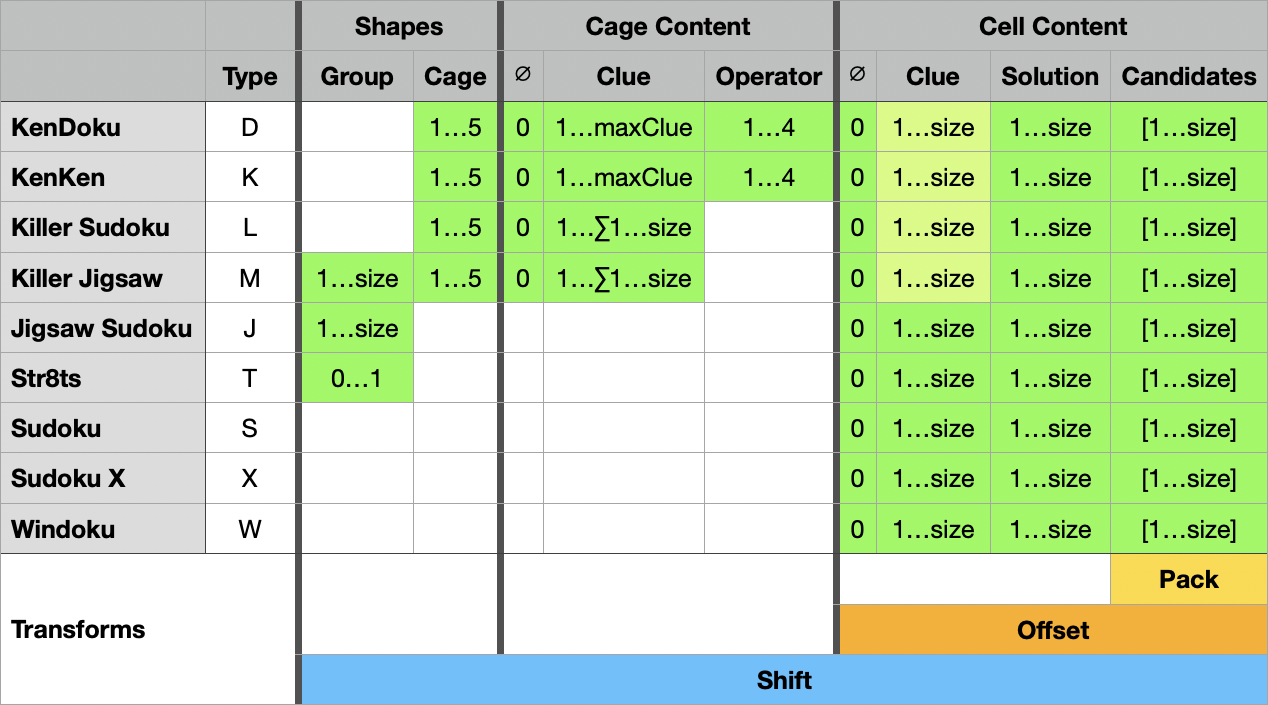
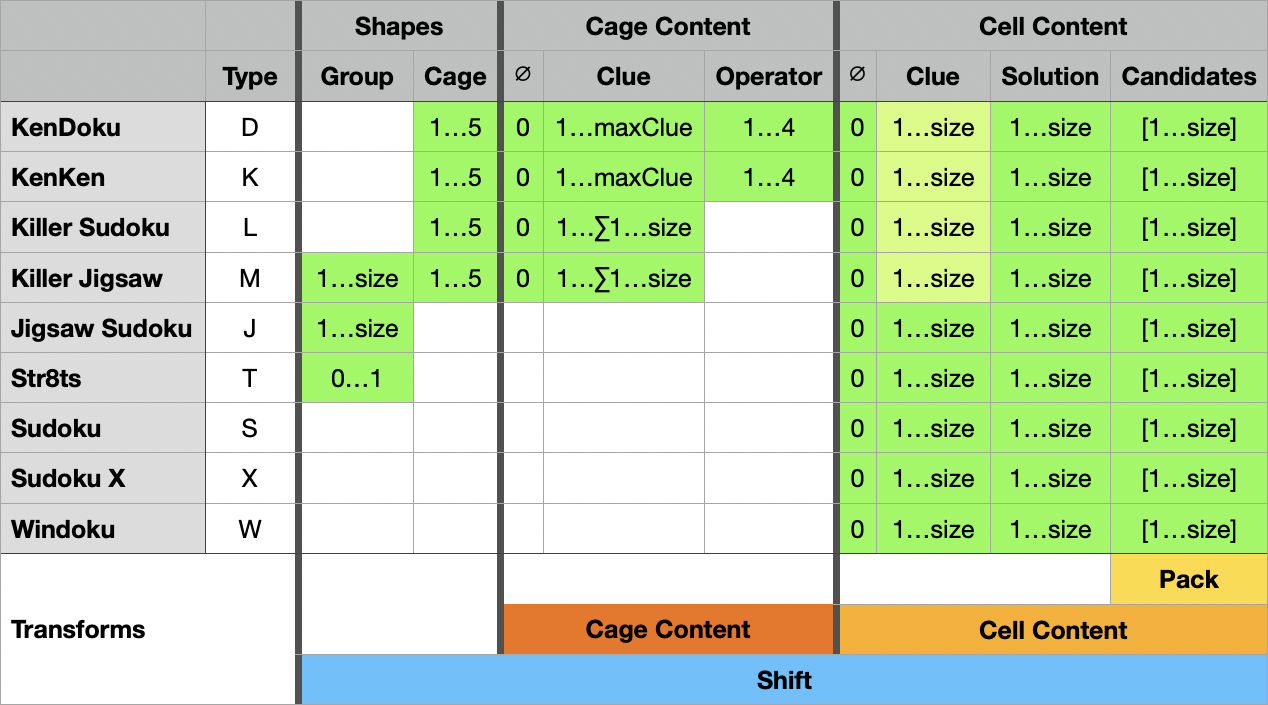
Reimplement KenCageTransform and update documentation.

Changed region(s): [[0.3998, 0.8426, 0.6767, 0.9362], [0.7689, 0.8738, 0.892, 0.905]]

diff --git a/Sources/PuzzleCoding/Cage/KenCageTransform.swift b/Sources/PuzzleCoding/Cage/KenCageTransform.swift
@@ -8,74 +8,49 @@
 struct KenCageTransform {
     let size: Size
 
-    var empty: Int { 0 }
+    private var empty: Int { 0 }
     private var maximumClue: Int { size.rawValue * size.rawValue * size.rawValue * (size.rawValue - 1) * (size.rawValue - 2) }
     var clueRange: ClosedRange<Int> { 1...min(1023, maximumClue) }
     var range: ClosedRange<Int> { empty...clueRange.upperBound }
 
-    private func left(_ index: Int) -> Int? {
-        guard index > 0 else { return nil }
-        let left = index - 1
-        // same row
-        guard index / size.rawValue == left / size.rawValue else { return nil }
-        return left
-    }
-
-    private func above(_ index: Int) -> Int? {
-        guard index >= size.rawValue else { return nil }
-        let above = index - size.rawValue
-        return above
-    }
-
-    private func isSingleCell(_ index: Int, in shapes: [Int]) -> Bool {
-        let left = left(index)
-        let above = above(index)
-        let right = (index + 1).isMultiple(of: size.rawValue) ? nil : index + 1
-        let below = (index + size.rawValue) > size.gridCellCount ? nil : index + size.rawValue
-        return (left == nil || shapes[left!] != shapes[index])
-        && (above == nil || shapes[above!] != shapes[index])
-        && (right == nil || shapes[right!] != shapes[index])
-        && (below == nil || shapes[below!] != shapes[index])
-    }
-
     func encode(_ cells: [CageInfo]) -> [Int] {
-        zip(cells.indices, cells).map { (index, info) in
-            if let clue = info.clue {
-                clue.value
-            } else if let left = left(index),
-                      cells[left].cage == info.cage,
-                      let op = cells[left].clue?.operator
-            {
-                op
-            } else if let above = above(index),
-                      cells[above].cage == info.cage,
-                      let op = cells[above].clue?.operator
-            {
-                op
-            } else {
-                empty
+        var values = Array(repeating: empty, count: size.gridCellCount)
+        for (index, info) in zip(cells.indices, cells) {
+            guard let clue = info.clue else { continue }
+            values[index] = clue.value
+            if let operatorCell = operatorCell(for: index, in: cells) {
+                values[operatorCell] = clue.operatorValue
             }
         }
+        return values
+    }
+
+    private func operatorCell(for index: Int, in cells: [CageInfo]) -> Int? {
+        var next = index + 1
+        guard !next.isMultiple(of: size.rawValue) else { return nil }
+        if cells[index].cage == cells[next].cage { return next }
+
+        next = index + size.rawValue
+        guard next < cells.endIndex, cells[index].cage == cells[next].cage else { return nil }
+        return next
     }
 
     func decode(shapes: [Int], contents: [Int]) throws -> [CageInfo] {
         var cages = shapes.map { CageInfo(cage: $0) }
+        var contents = contents
 
-        for (index, content) in zip(contents.indices, contents) where content != empty {
-            if let left = left(index),
-               cages[left] == cages[index],
-               let clue = CageInfo.Clue(operator: content, value: contents[left])
-            {
-                cages[left].clue = clue
-            } else if let above = above(index),
-                      cages[above] == cages[index],
-                      let clue = CageInfo.Clue(operator: content, value: contents[above])
-            {
-                cages[above].clue = clue
-            } else if isSingleCell(index, in: shapes) {
-                cages[index].clue = .add(content)
+        for index in contents.indices where contents[index] != empty {
+            let clueValue = contents[index]
+            if let operatorCell = operatorCell(for: index, in: cages) {
+                let operatorValue = contents[operatorCell]
+                guard let clue = CageInfo.Clue(operator: operatorValue, value: clueValue) else { throw Error.outOfRange }
+                cages[index].clue = clue
+                contents[operatorCell] = empty
+            } else {
+                cages[index].clue = CageInfo.Clue.add(clueValue)
             }
         }
+
         guard cages.allSatisfy({ $0.clue.map { clueRange.contains($0.value) } ?? true }) else { throw Error.outOfRange }
         return cages
     }

diff --git a/Tests/PuzzleCodingTests/ManualTranslationTests.swift b/Tests/PuzzleCodingTests/ManualTranslationTests.swift
@@ -12,7 +12,7 @@ struct ManualTranslationTests {
     @Test
     func kenKen() throws {
         let raw = KenKen.veryEasy1.rawValue
-        print(raw)
+//        print(raw)
         let decoded = try #require(KenKen(rawValue: raw))
         //        let grid = Grid(decoded.puzzle)
         //        print(grid.cellContent)
@@ -25,7 +25,7 @@ struct ManualTranslationTests {
     @Test
     func kenKenSmall3() throws {
         let raw = KenKen.small3.rawValue
-        print(raw)
+//        print(raw)
         let decoded = try #require(KenKen(rawValue: raw))
 //        let grid = Grid(decoded)
 //        print(grid.cellContent)
@@ -38,7 +38,7 @@ struct ManualTranslationTests {
     @Test
     func kenKenSmall4() throws {
         let raw = KenKen.small4.rawValue
-        print(raw)
+//        print(raw)
         let decoded = try #require(KenKen(rawValue: raw))
 //        let grid = Grid(decoded)
 //        print(grid.cellContent)
@@ -73,9 +73,9 @@ struct ManualTranslationTests {
         let raw = Str8ts.easy1.rawValue
         let decoded = try #require(Str8ts(rawValue: raw))
         let grid = Grid(decoded)
-        print(raw)
-        print(grid.group)
-        print(grid.cellContent)
+//        print(raw)
+//        print(grid.group)
+//        print(grid.cellContent)
         let encoded = decoded.rawValue
         #expect(raw == encoded)
         #expect(decoded == Str8ts.easy1)

diff --git a/Tests/PuzzleCodingTests/SudokuWikiCompatibilityTests.swift b/Tests/PuzzleCodingTests/SudokuWikiCompatibilityTests.swift
@@ -11,11 +11,15 @@ import Testing
 struct SudokuWikiCompatibilityTests {
     @Test
     func kenKen() throws {
+//        let cells = KenKen.veryEasy1
[1 lines of base64/hex data omitted]
+//        let attempt = KenKen(rawValue: raw)
+//        print(attempt)
+
         let myRaw = try KenKen(cells: KenKen.veryEasy1, version: .versionB).rawValue
         #expect(raw == myRaw)
         let decoded = try #require(KenKen(rawValue: raw))
-        print(Grid(decoded))
+//        print(Grid(decoded))
         let encoded = decoded.rawValue
         #expect(raw == encoded)
 
@@ -26,7 +30,7 @@ struct SudokuWikiCompatibilityTests {
     func killerJigsaw() throws {
         let raw = ""
         let decoded = try #require(KillerJigsaw(rawValue: raw))
-        print(Grid(decoded))
+//        print(Grid(decoded))
         let encoded = decoded.rawValue
         #expect(raw == encoded)
     }

diff --git a/Tests/PuzzleCodingTests/KenKenCoderTests.swift b/Tests/PuzzleCodingTests/KenKenCoderTests.swift
@@ -47,14 +47,14 @@ struct KenKenCoderTests {
         }
     }
 
-    @Test
-    func sizes() {
-        for size in Size.allCases {
-            let ranges = KenKen.ranges(for: size)
-            let shiftTransform = ShiftTransform(ranges: ranges.cageShape, ranges.cageContent, ranges.cellContent)
-            let fieldCoding = FieldCoding(range: shiftTransform.range)
-        }
-    }
+//    @Test
+//    func sizes() {
+//        for size in Size.allCases {
+//            let ranges = KenKen.ranges(for: size)
+//            let shiftTransform = ShiftTransform(ranges: ranges.cageShape, ranges.cageContent, ranges.cellContent)
+//            let fieldCoding = FieldCoding(range: shiftTransform.range)
+//        }
+//    }
 //    @Test
 //    func maximums() {
 //        for size in Size.allCases {

diff --git a/Sources/PuzzleCoding/Puzzles/KenKen/KenKenVersionB.swift b/Sources/PuzzleCoding/Puzzles/KenKen/KenKenVersionB.swift
@@ -16,14 +16,14 @@ extension KenKen {
         static func encode(_ puzzle: KenKen) -> String {
             let size = puzzle.size
 
-            let cageValues = KenCageTransform(size: size).encode(puzzle.map(\.cage!))
+            let cageContent = KenCageTransform(size: size).encode(puzzle.map(\.cage!))
             let ranges = KenKen.ranges(for: size)
             let shiftTransform = ShiftTransform(ranges: ranges.cageShape, ranges.cageContent, ranges.cellContent)
 
             let cellTransform = CellContentTransform(size: size)
             let values = Zipper(
                 puzzle.map(\.cage!.cage),
-                cageValues,
+                cageContent,
                 puzzle.map(\.content).map(cellTransform.encode)
             ).map(shiftTransform.encode)
 

diff --git a/Sources/PuzzleCoding/Cell/CageInfo.swift b/Sources/PuzzleCoding/Cell/CageInfo.swift
@@ -7,7 +7,7 @@
 
 /// Cage related information about a cell.
 ///
-/// >Important: Be sure you understand how to store information for <doc:Cages> and <doc:Shapes>.
+/// >Important: Be sure you understand how to store information for [Cages](<doc:CageContentTransform>) and <doc:Shapes>.
 public struct CageInfo: Equatable, Sendable {
     /// The cage containing the cell.
     public var cage: Int
@@ -20,7 +20,7 @@ public struct CageInfo: Equatable, Sendable {
         case multiply(Int)
         case divide(Int)
 
-        var `operator`: Int {
+        var operatorValue: Int {
             switch self {
             case .add: 1
             case .subtract: 2

diff --git a/Sources/PuzzleCoding/Cage/KillerCageTransform.swift b/Sources/PuzzleCoding/Cage/KillerCageTransform.swift
@@ -9,8 +9,8 @@ struct KillerCageTransform {
     let size: Size
 
     var empty: Int { 0 }
-    var clueRange: ClosedRange<Int> { empty...size.valueRange.reduce(0, +) }
-    var range: ClosedRange<Int> { clueRange }
+    var clueRange: ClosedRange<Int> { 1...size.valueRange.reduce(0, +) }
+    var range: ClosedRange<Int> { empty...clueRange.upperBound }
 
     func encode(_ cells: [CageInfo]) -> [Int] {
         cells.map { $0.clue?.value ?? empty }

diff --git a/Tests/PuzzleCodingTests/KenKen+.swift b/Tests/PuzzleCodingTests/KenKen+.swift
@@ -28,8 +28,8 @@ extension KenKen {
         ]
 
         let cells = zip(cageShapes, clues).map { cage, clue in
-            Cell(cage: CageInfo(cage: cage, clue: clue),
-                 content: .candidates(Set(1...6)))
+//            Cell(cage: CageInfo(cage: cage, clue: clue))
+            Cell(cage: CageInfo(cage: cage, clue: clue), content: .candidates(Set(1...6)))
         }
 
         return try! KenKen(cells: cells)

diff --git a/Sources/PuzzleCoding/Documentation.docc/EncodingFormats.md b/Sources/PuzzleCoding/Documentation.docc/EncodingFormats.md
@@ -71,7 +71,7 @@ Green cells indicate the data that is required for the puzzle type and the range
 There are three general types of data to encode.
 
 - term Shapes: <doc:Shapes> describe groupings of cells. The cells of a Jigsaw piece or a cage are examples.
-- term Cage Content: <doc:Cages> contain clues about a group of cells such as the sum of their content.
+- term Cage Content: [Cages](<doc:CageContentTransform>) contain clues about a group of cells such as the sum of their content.
 - term Cell Content: Cell content is what we typically consider the data *in* a cell. It is the clue, solution or candidates (the *progress*) of the puzzle.
 
 > Important: The `∅` column under Cage Content and Cell Content indicates that *empty* is a valid value. Emptiness is denoted by the value `0`.
@@ -83,13 +83,14 @@ All puzzles are currently using Version B coding.
 This encoding transforms all of the information about each cell of a puzzle into an integer and appends
 that value to the encoding being constructed. 
 
-Version B uses 3 types of transformations to produce encoded output.
+Version B uses 4 types of transformations to produce encoded output.
 
-- term Pack: [Transform a set of *candidates*](<doc:PackCandidates>) into a single value.
-- term Offset: [Transform a set of *mutually exclusive* values](doc:OffsetTransform) into a single value. This is used for cell content. For example, a cell has multiple types of content: clue, solution or candidates that need to be described, but only one of these types of data is present at a time.
+- term Pack: [Transform a set of candidates](<doc:PackCandidates>) into a single value.
+- term Cell Content: [Transform cell content](<doc:CellContentTransform>) into a single value.
+- term Cage Content: [Transform cage content](<doc:CageContentTransform>) into a single value.
 - term Shift: [Transform a group of values](<doc:ShiftTransform>) into a single value. This is the final transformation that combines all values into a single integer representation for the data describing a cell.
 
-Some types of data go through multiple transformations as shown in the table. For example *Cell Content Candidates* are first packed and then offset. If we're coding a Jigsaw Sudoku the *Shapes Group* values are shifted along with the offset candidates to produce a new value.
+Some types of data go through multiple transformations as shown in the table. For example *Cell Content Candidates* are first packed and then transformed with the cell content transform. If we're coding a Jigsaw Sudoku the *Shapes Group* values are shifted along with the transformed candidates to produce a new value.
 
 Once all of the data for a cell has been transformed into a single value use <doc:FieldCoding> to output the value.
 
@@ -121,7 +122,7 @@ Choose your puzzle type and encode each cell using the transforms.
             @Column {
                 <doc:ShiftTransform>
                 1. cage number ([shape](<doc:Shapes>))
-                2. cage content ([cage](<doc:Cages>))
+                2. <doc:CageContentTransform>
                 3. <doc:CellContentTransform>
             }
             @Column {
@@ -153,7 +154,7 @@ Choose your puzzle type and encode each cell using the transforms.
                 <doc:ShiftTransform>
                 1. box number ([shape](<doc:Shapes>))
                 2. cage number ([shape](<doc:Shapes>))
-                3. cage content ([cage](<doc:Cages>))
+                3. <doc:CageContentTransform>
                 4. <doc:CellContentTransform>
             }
             @Column {
@@ -172,7 +173,7 @@ Choose your puzzle type and encode each cell using the transforms.
             @Column {
                 <doc:ShiftTransform>
                 1. cage number ([shape](<doc:Shapes>))
-                2. cage content ([cage](<doc:Cages>))
+                2. <doc:CageContentTransform>
                 3. <doc:CellContentTransform>
             }
             @Column {

diff --git a/Sources/PuzzleCoding/Documentation.docc/CageContentTransform.md b/Sources/PuzzleCoding/Documentation.docc/CageContentTransform.md
@@ -1,6 +1,6 @@
-# Cages
+# Cage Content Transform
 
-A cage is a group of cells for which the puzzle provides a clue.
+Transform cage content into an integer.
 
 ## Overview
 
@@ -12,8 +12,8 @@ The cages in the image are outlined and colored.
 
 To describe cages we need to describe the <doc:Shapes> of the cages as well as the clues & operators.
 
-In order to more efficiently utilize space we separate the clue from the operator. 
-A cage clue, for example the 24 in A1 always appears in the first cell of the cage. 
+Notice that there are a lot more empty cells than cells with clues. In order to more efficiently utilize space we separate
+the clue from the operator. A cage clue, for example the 24 in A1 always appears in the first cell of the cage. 
 
 For KenDoku and KenKen the second cell of a cage (when there is more than one cell in the cage) contains the
 operator. The second cell is the cell to the right of the clue if there is a cell to the right, else the cell below the clue.

diff --git a/Sources/PuzzleCoding/Documentation.docc/CellContentTransform.md b/Sources/PuzzleCoding/Documentation.docc/CellContentTransform.md
@@ -4,7 +4,7 @@ Transform cell content into an integer.
 
 ## Overview
 
-This is an <doc:OffsetTransform> that transforms cell content into an integer.
+A cell can contain nothing, a clue, solution or set of candidates, but only one of those at a time; the values are mutually exclusive. This allows us to reuse the same set of bits for the different value types. To distinguish the different value types we force each into its own range of values.
 
 ## Details
 

diff --git a/Sources/PuzzleCoding/Documentation.docc/PuzzleCoding.md b/Sources/PuzzleCoding/Documentation.docc/PuzzleCoding.md
@@ -93,9 +93,8 @@ if let puzzle = try? Sudoku(cells: cells) {
 
 - <doc:EncodingFormats>
 - <doc:PackCandidates>
-- <doc:OffsetTransform>
 - <doc:CellContentTransform>
+- <doc:CageContentTransform>
 - <doc:ShiftTransform>
 - <doc:FieldCoding>
 - <doc:Shapes>
-- <doc:Cages>
